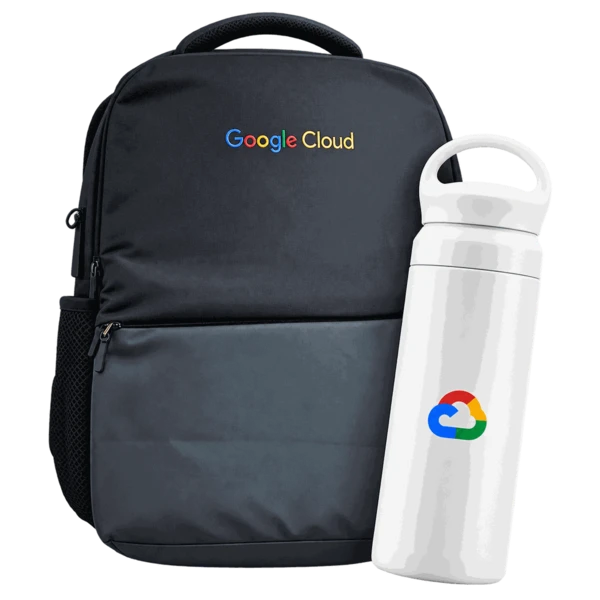
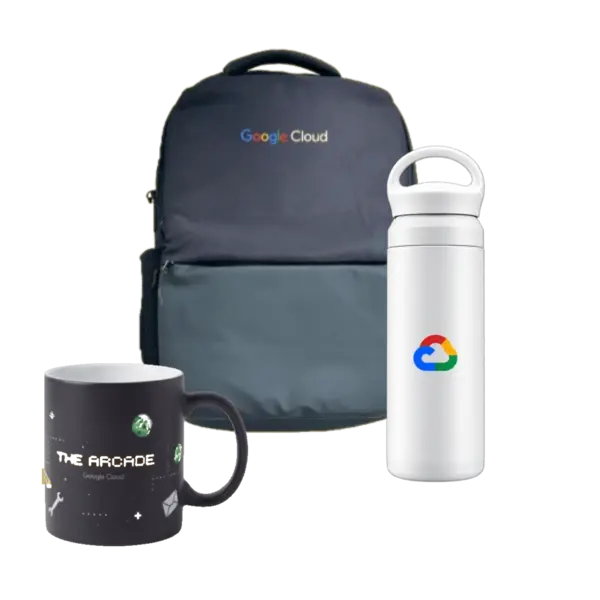
feat(prizes): add The Arcade Magic Mug swag drop

diff --git a/src/index.css b/src/index.css
@@ -710,13 +710,12 @@ button.ri-head{display:flex;align-items:center;gap:10px;width:100%;padding:0;bac
   .foot-colgroup .fcol{min-width:120px}
 }
 
-@media(max-width:1100px){
+@media(max-width:980px){
   .topbar-inner{flex-direction:column;align-items:stretch;gap:10px;padding:10px 12px}
   .brand{justify-content:center}
-  .topnav{display:grid;grid-template-columns:repeat(6,1fr);gap:3px}
-  .topnav .navitem{justify-content:center;padding:11px 0}
-  .topnav .navitem>span:not(.navpill){display:none}
-  .topnav svg{width:22px;height:22px}
+  .topnav{justify-content:center;gap:6px}
+  .topnav .navitem{padding:8px 10px;font-size:13px;gap:6px}
+  .topnav svg{width:16px;height:16px}
   /* Di sini isinya jadi dua baris (brand di atas nav), bentuknya blok bukan
      batang — radius pil penuh malah aneh, jadi dilembutkan saja. Padding tetap
      harus menyusut 10px seperti di desktop (10 -> 5) supaya tebusan 5px di
@@ -725,7 +724,11 @@ button.ri-head{display:flex;align-items:center;gap:10px;width:100%;padding:0;bac
   .topbar.stuck .topbar-inner{padding:5px 14px}
 }
 
-@media(max-width:620px){
+@media(max-width:640px){
+  .topnav{display:grid;grid-template-columns:repeat(6,1fr);gap:3px}
+  .topnav .navitem{justify-content:center;padding:11px 0}
+  .topnav .navitem>span:not(.navpill){display:none}
+  .topnav svg{width:22px;height:22px}
   .main{padding:20px 14px 48px}
 }
 button{font-family:inherit;cursor:pointer}
@@ -1431,18 +1434,21 @@ button:focus-visible,input:focus-visible{outline:2px solid var(--gold);outline-o
 .tier-btn{margin-top:auto;padding:7px 10px;font-size:11.5px;font-weight:700;background:rgba(255,255,255,.06);border:1px solid var(--line);border-radius:7px;color:#dbe6fb;cursor:pointer;text-align:center;transition:background-color .14s,border-color .14s}
 .tier-btn:hover{background:rgba(255,255,255,.12);border-color:rgba(255,255,255,.28);color:#fff}
 
-/* Spotlight Row (4 columns desktop) */
+/* Spotlight Row (5 columns desktop) */
 .spotlight-row{
   display:grid;
-  grid-template-columns:repeat(4,minmax(0,1fr));
+  grid-template-columns:repeat(5,minmax(0,1fr));
   gap:12px;
   margin-top:14px;
   width:100%;
 }
-@media(max-width:900px){
+@media(max-width:960px){
+  .spotlight-row{grid-template-columns:repeat(3,minmax(0,1fr))}
+}
+@media(max-width:640px){
   .spotlight-row{grid-template-columns:repeat(2,minmax(0,1fr))}
 }
-@media(max-width:520px){
+@media(max-width:480px){
   .spotlight-row{grid-template-columns:1fr}
 }
 

diff --git a/src/pages/Prizes.jsx b/src/pages/Prizes.jsx
@@ -17,6 +17,7 @@ const SWAG_TIERS = [
     image: '/img/swags/trooper.webp',
     items: [
       { name: 'The Arcade Travel Bottle', desc: 'Botol stainless steel 5.5 cm ramping, anti-bocor' },
+      { name: 'The Arcade Magic Mug', desc: 'Cangkir keramik bunglon dengan desain arcade saat panas' },
     ],
     hasMore: true,
   },
@@ -29,6 +30,7 @@ const SWAG_TIERS = [
     items: [
       { name: 'The Arcade Backpack', desc: 'Ransel tahan cipratan air dengan slot laptop' },
       { name: 'The Arcade Travel Bottle', desc: 'Botol minum stainless steel ringkas' },
+      { name: 'The Arcade Magic Mug', desc: 'Cangkir keramik bunglon bersuhu panas ramah lingkungan' },
     ],
     hasMore: true,
   },
@@ -59,6 +61,17 @@ const SWAG_TIERS = [
 ]
 
 const SPOTLIGHT_ITEMS = [
+  {
+    name: 'The Arcade Magic Mug',
+    tiers: 'Trooper & Ranger',
+    image: '/img/swags/item-mug.webp',
+    forumUrl: 'https://discuss.google.dev/t/swag-drop-the-arcade-magic-mug/407455',
+    features: [
+      'Desain arcade tersembunyi muncul saat terkena panas',
+      'Warna putih minimalis saat suhu dingin',
+      'Material solid berbobot mantap dan ramah lingkungan',
+    ],
+  },
   {
     name: 'The Arcade Travel Bottle',
     tiers: 'Trooper & Ranger',
